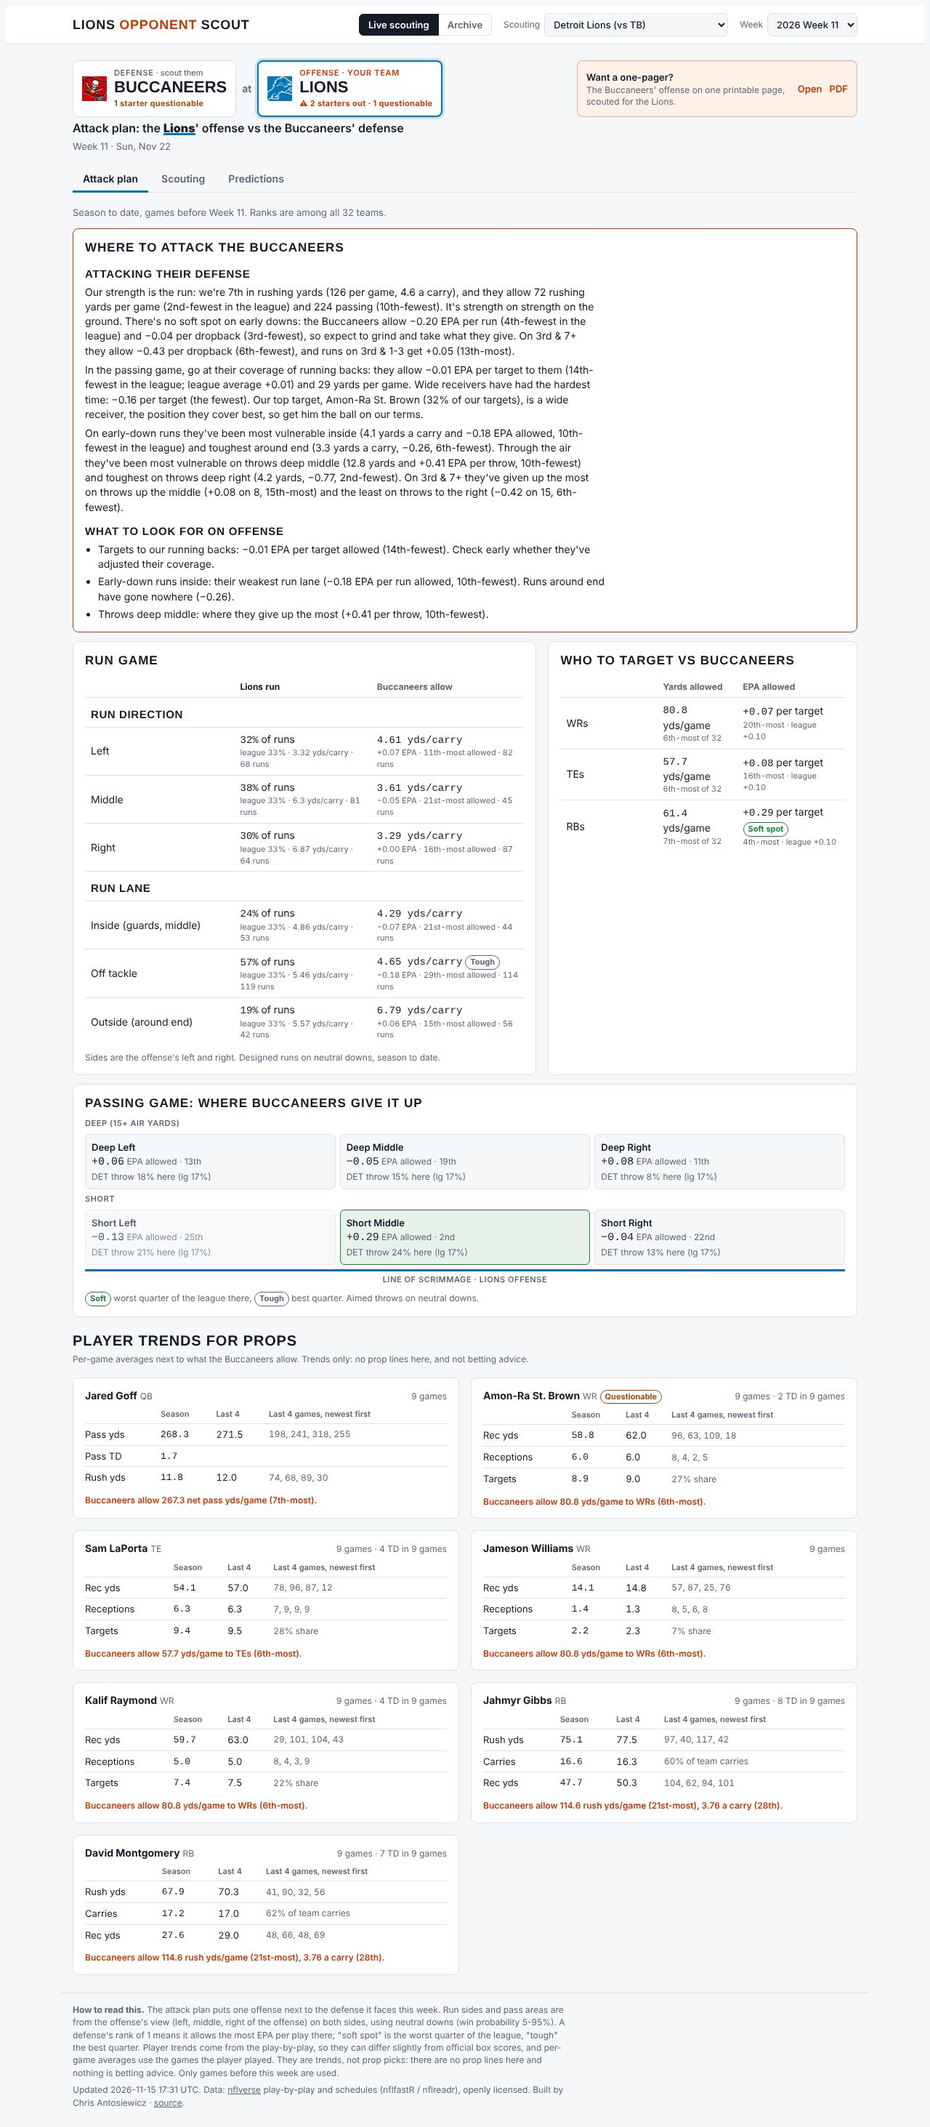
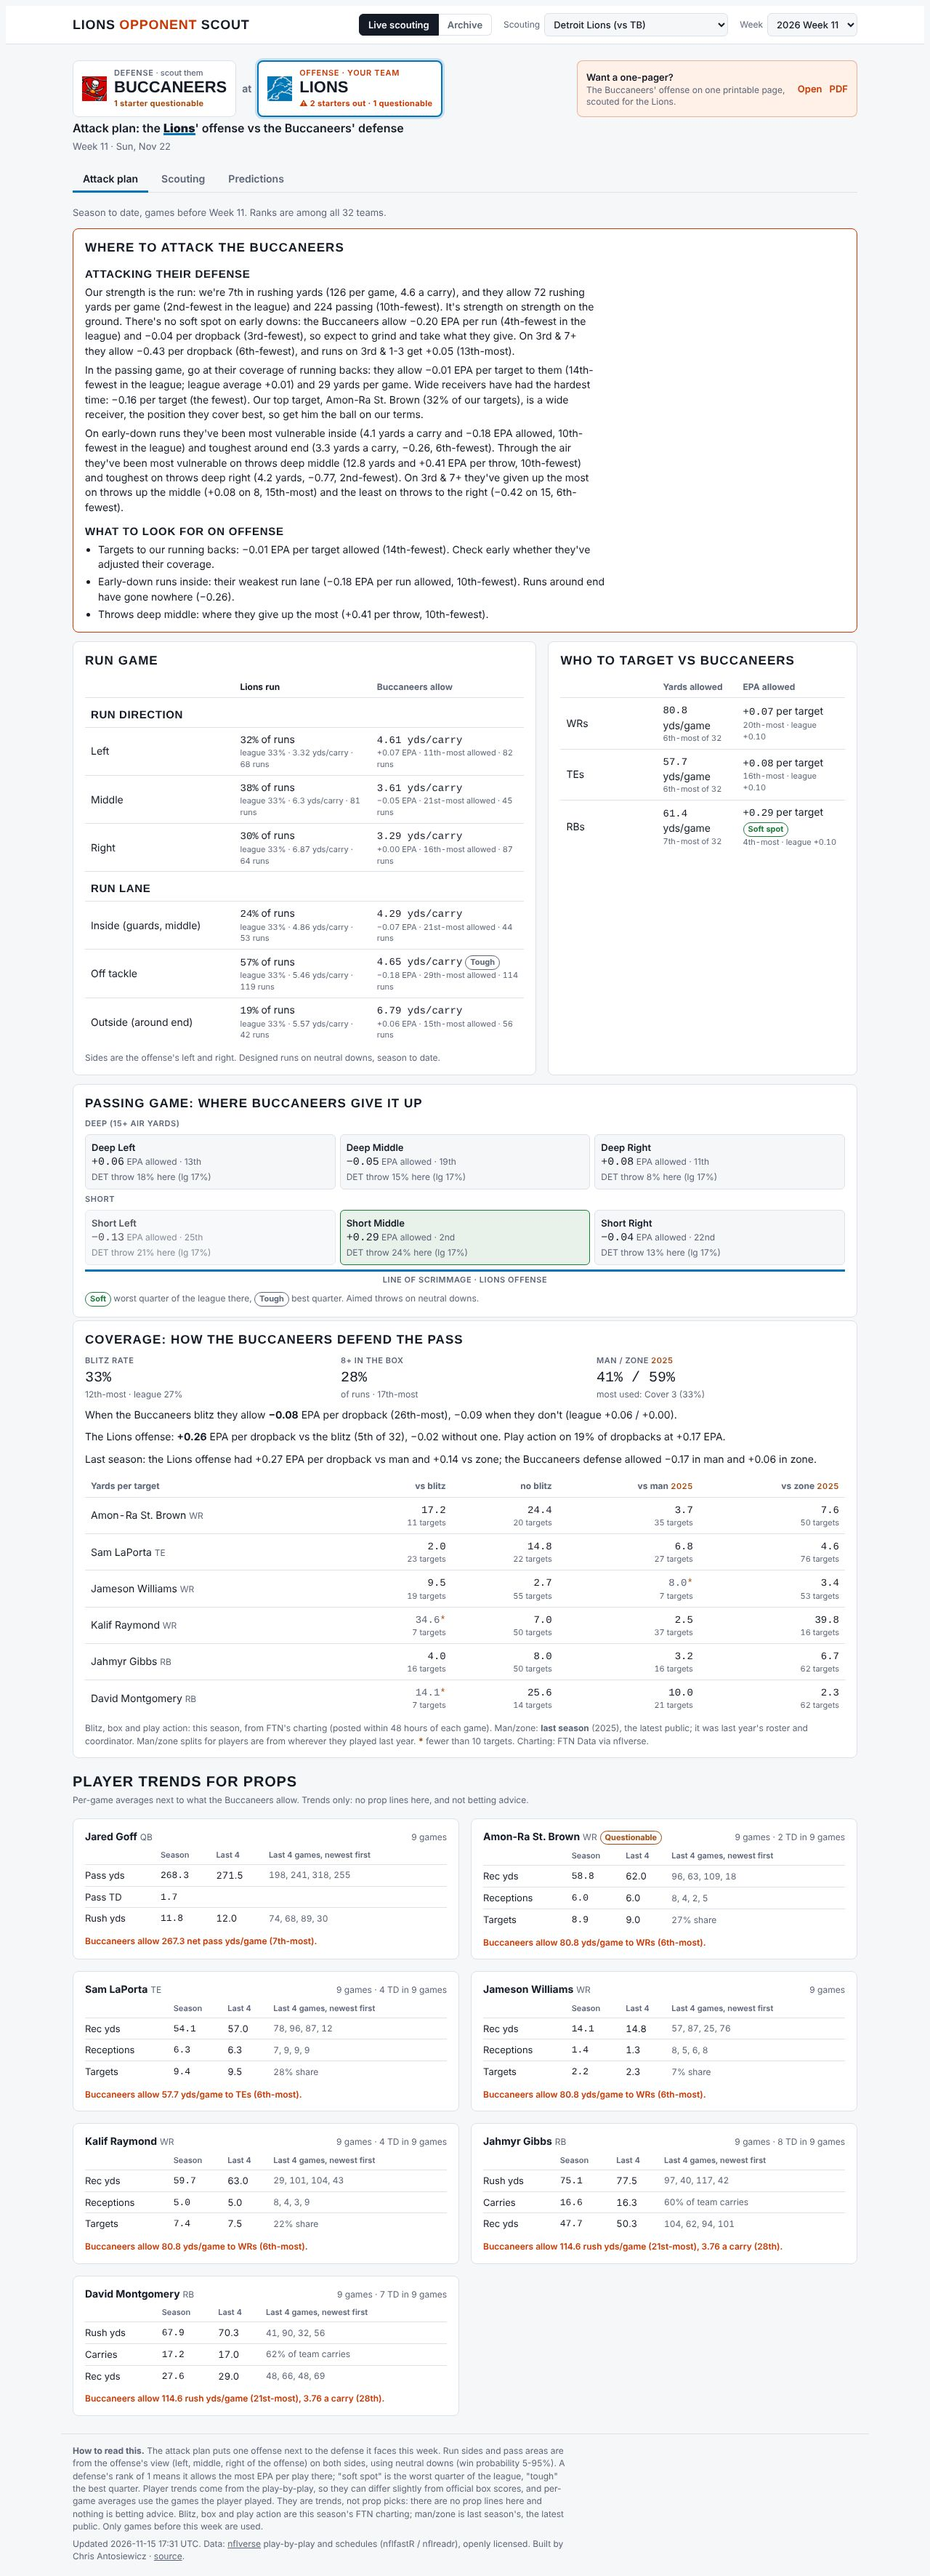
Attack plan: coverage box (blitz, box, play action, last season man/zone)
New feeds raw_ftn_charting (this season, FTN via nflverse) and
raw_participation (last season). 09_stg_charting.sql stages them per play;
37_coverage_matchup.sql builds coverage_team (blitz rate, EPA vs blitz,
heavy box, play action, last season man/zone and top shell) and
coverage_players (yards per target vs blitz / no blitz, last season vs
man / zone), with test_coverage_valid.sql.

Claude-Session: https://claude.ai/code/session_01T24xhufLEbDyjZPymWdNS4

diff --git a/site/scout.html b/site/scout.html
@@ -222,7 +222,7 @@ table.props td b { font-family: var(--mono); font-weight: 500; }
 
 <footer class="wrap">
   <p id="how-preds" hidden><strong>How to read this.</strong> Lines and records come from nflverse schedules. A spread is shown from each team's side, favorite negative. The win chance is a model estimate from an Elo rating (every team's strength, updated after each game, with home field and rest after a bye) and is shown next to the market's chance from the moneylines with the bookmaker's margin removed. Only win chances are shown: the model has not shown an edge against the spread or on totals. Trend records count each game against its closing line. Only games before this week are used.</p>
-  <p id="how-attack" hidden><strong>How to read this.</strong> The attack plan puts one offense next to the defense it faces this week. Run sides and pass areas are from the offense's view (left, middle, right of the offense) on both sides, using neutral downs (win probability 5-95%). A defense's rank of 1 means it allows the most EPA per play there; "soft spot" is the worst quarter of the league, "tough" the best quarter. Player trends come from the play-by-play, so they can differ slightly from official box scores, and per-game averages use the games the player played. They are trends, not prop picks: there are no prop lines here and nothing is betting advice. Only games before this week are used.</p>
+  <p id="how-attack" hidden><strong>How to read this.</strong> The attack plan puts one offense next to the defense it faces this week. Run sides and pass areas are from the offense's view (left, middle, right of the offense) on both sides, using neutral downs (win probability 5-95%). A defense's rank of 1 means it allows the most EPA per play there; "soft spot" is the worst quarter of the league, "tough" the best quarter. Player trends come from the play-by-play, so they can differ slightly from official box scores, and per-game averages use the games the player played. They are trends, not prop picks: there are no prop lines here and nothing is betting advice. Blitz, box and play action are this season's FTN charting; man/zone is last season's, the latest public. Only games before this week are used.</p>
   <p id="how-scout"><strong>How to read this.</strong> Every dot is one NFL team, ranked on the same plays. The big dot is the team you picked, the dark line is the league average. Pass rate counts sacks and scrambles as passes. Pass rate over expected compares their pass rate with what an average team calls in the same down, distance, field position, score and time (nflverse xpass model). EPA is expected points added per play; above 0 helps the offense. Early downs, 3rd down, red zone and all neutral use only plays with the offense's win probability between 5% and 95%; 2-minute and trailing by 8+ use every play. Numbers on fewer than 30 plays are greyed and marked * and never make "What stands out". Only games before this week are used.</p>
   <p id="foot-meta"></p>
 </footer>
@@ -691,6 +691,32 @@ table.props td b { font-family: var(--mono); font-weight: 500; }
       <tbody>${lines.map(l => `<tr><td>${l[0]}</td><td><b>${l[1]}</b></td><td>${l[2] || ""}</td><td class="muted">${l[3]}</td></tr>`).join("")}</tbody></table>
       ${vs ? `<p class="vs">${vs}</p>` : ""}</article>`;
   }
+  function coverageBox(d, team, info, oppInfo) {
+    const cov = (d.coverage || []);
+    const def = cov.find(r => r.team === oppInfo.team && r.side === "defense");
+    const off = cov.find(r => r.team === team && r.side === "offense");
+    if (!def && !off) return "";
+    const pc = v => v == null ? "–" : Math.round(100 * v) + "%";
+    const shell = c => String(c || "").replace(/^COVER_/, "Cover ").replace("2_MAN", "2-Man").replace(/_/g, " ").toLowerCase().replace(/^\w/, x => x.toUpperCase());
+    const stats = [];
+    if (def && def.blitz_rate != null) stats.push(`<div class="stat"><div class="k">Blitz rate</div><div class="v">${pc(def.blitz_rate)}</div><div class="s">${def.blitz_rank ? `${ord(def.blitz_rank)}-most · ` : ""}league ${pc(def.league_blitz_rate)}</div></div>`);
+    if (def && def.heavy_box_rate != null) stats.push(`<div class="stat"><div class="k">8+ in the box</div><div class="v">${pc(def.heavy_box_rate)}</div><div class="s">of runs${def.heavy_box_rank ? ` · ${ord(def.heavy_box_rank)}-most` : ""}</div></div>`);
+    if (def && def.ly_man_rate != null) stats.push(`<div class="stat"><div class="k">Man / zone <span class="est">${d.season - 1}</span></div><div class="v">${pc(def.ly_man_rate)} / ${pc(def.ly_zone_rate)}</div><div class="s">${def.ly_top_coverage ? `most used: ${esc(shell(def.ly_top_coverage))} (${pc(def.ly_top_coverage_share)})` : ""}</div></div>`);
+    const lines = [];
+    if (def && def.blitz_epa != null) lines.push(`When the ${esc(oppInfo.nick)} blitz they allow <b>${sgn(def.blitz_epa)}</b> EPA per dropback${def.blitz_epa_rank ? ` (${ord(def.blitz_epa_rank)}-most)` : ""}, ${sgn(def.noblitz_epa)} when they don't (league ${sgn(def.league_blitz_epa)} / ${sgn(def.league_noblitz_epa)}).`);
+    if (off && off.blitz_epa != null) lines.push(`The ${esc(info.nick)} offense: <b>${sgn(off.blitz_epa)}</b> EPA per dropback vs the blitz${off.blitz_epa_rank ? ` (${ord(off.blitz_epa_rank)} of ${off.teams})` : ""}, ${sgn(off.noblitz_epa)} without one. Play action on ${pc(off.pa_rate)} of dropbacks at ${sgn(off.pa_epa)} EPA.`);
+    if (off && off.ly_man_epa != null && def && def.ly_man_epa != null) lines.push(`Last season: the ${esc(info.nick)} offense had ${sgn(off.ly_man_epa)} EPA per dropback vs man and ${sgn(off.ly_zone_epa)} vs zone; the ${esc(oppInfo.nick)} defense allowed ${sgn(def.ly_man_epa)} in man and ${sgn(def.ly_zone_epa)} in zone.`);
+    const MINT = 10;
+    const split = (t, y) => !t ? `<td class="small">–</td>` : `<td class="${t < MINT ? "small" : ""}"><b>${(y / t).toFixed(1)}</b><small>${t} targets</small></td>`;
+    const ps = (d.coverage_players || []).filter(r => r.team === team && (r.blitz_targets + r.noblitz_targets + r.ly_man_targets + r.ly_zone_targets) > 0);
+    const table = ps.length ? `<table class="h2h"><thead><tr><th>Yards per target</th><th>vs blitz</th><th>no blitz</th><th>vs man <span class="est">${d.season - 1}</span></th><th>vs zone <span class="est">${d.season - 1}</span></th></tr></thead><tbody>
+      ${ps.map(r => `<tr><td>${esc(r.player)} <span class="muted">${esc(r.position || "")}</span></td>${split(r.blitz_targets, r.blitz_yards)}${split(r.noblitz_targets, r.noblitz_yards)}${split(r.ly_man_targets, r.ly_man_yards)}${split(r.ly_zone_targets, r.ly_zone_yards)}</tr>`).join("")}</tbody></table>` : "";
+    return `<div class="box" style="margin-top:4px"><h2>Coverage: how the ${esc(oppInfo.nick)} defend the pass</h2>
+      ${stats.length ? `<div class="lines">${stats.join("")}</div>` : ""}
+      ${lines.map(l => `<p style="margin:10px 0 0">${l}</p>`).join("")}
+      ${table ? `<div style="margin-top:12px;overflow-x:auto">${table}</div>` : ""}
+      <p class="muted" style="margin:8px 0 0">Blitz, box and play action: this season, from FTN's charting (posted within 48 hours of each game). Man/zone: <b>last season</b> (${d.season - 1}), the latest public; it was last year's roster and coordinator. Man/zone splits for players are from wherever they played last year. <b style="color:var(--warn)">*</b> fewer than ${MINT} targets. Charting: FTN Data via nflverse.</p></div>`;
+  }
   function attackHtml(d, team, info, game, notes) {
     if (!game) return `<div class="box" style="margin-top:12px"><h2>Bye week</h2><p class="muted">The ${esc(info.nick)} don't play this week. The Scouting tab still has their tendencies.</p></div>`;
     const oppInfo = d.teamInfo.get(game.opponent);
@@ -702,6 +728,7 @@ table.props td b { font-family: var(--mono); font-weight: 500; }
       ${notes ? `<div class="box notes" style="margin-top:12px"><h2>Where to attack the ${esc(oppInfo.nick)}</h2>${notesHtml(notes)}</div>` : ""}
       <section class="lead">${runTable(d, team, info, game.opponent, oppInfo)}${positionBox(d, oppInfo)}</section>
       ${passGrid(d, team, info, game.opponent, oppInfo)}
+      ${coverageBox(d, team, info, oppInfo)}
       <h2 class="sec">Player trends for props</h2>
       <p class="muted" style="margin:0 0 8px">Per-game averages next to what the ${esc(oppInfo.nick)} allow. Trends only: no prop lines here, and not betting advice.</p>
       <section class="grid">${players.map(p => propCard(d, p, oppInfo)).join("") || `<p class="muted">No player data yet.</p>`}</section>`;

diff --git a/_shared/definitions.md b/_shared/definitions.md
@@ -54,7 +54,7 @@ Implemented in `sql/models/08_stg_injuries.sql`, `35_injury_report.sql` and `36_
 
 ## Attack plan and player trends (added Nov 15, 2026)
 
-Implemented in `sql/models/22_player_trends.sql`; the attack plan on `site/scout.html` also reads `24_defense_vs_position`, `25_team_yards` and `26_play_direction`.
+Implemented in `sql/models/22_player_trends.sql`, `09_stg_charting.sql` and `37_coverage_matchup.sql`; the attack plan on `site/scout.html` also reads `24_defense_vs_position`, `25_team_yards` and `26_play_direction`.
 
 | Item | Definition |
 |------|-----------|
@@ -63,6 +63,9 @@ Implemented in `sql/models/22_player_trends.sql`; the attack plan on `site/scout
 | Player picks | Per team: the QB with the most passing yards, the 2 backs with the most carries, the 4 WR/TE with the most targets, season to date. |
 | Player stats | From play-by-play: receiving = targets, catches, yards on catches; rushing = every carry with a rusher listed, scrambles included; passing = completions and yards on them. Per-game = over the games the player had a stat. Can differ slightly from official box scores. |
 | Prop trends | Averages and last 4 game logs next to what the opponent allows. No prop lines; not a pick. |
+| Blitz | FTN charting: 1+ blitzer on a dropback. Blitz rate = blitzes / charted dropbacks; ranks need 30+ charted dropbacks. |
+| Heavy box | FTN charting: 8+ defenders in the box at the snap on a designed run. |
+| Man / zone | nflverse participation (FTN), last season only: it is published after the postseason, so the current season has none. Shown labeled with its season. |
 
 ## Trades during the season
 

diff --git a/sql/export/CONTEXT.md b/sql/export/CONTEXT.md
@@ -7,7 +7,7 @@ One job: write what `site/scout.html` and `site/archive.html` fetch.
 - Reference (every run): `R/pipeline.R` `run_sql_template()` fills the `{{placeholders}}`
 
 ## Process
-1. `site_week.sql`: all 32 teams for one week -> `site/data/<season>-week<NN>.json`, including injury reports, the game-day forecast and the attack plan's data (play direction, defense vs position, team yards, player trends). Written for the focal team's report week and, when that team is on bye, for the league's current week too, so the page always has this weekend's games. Update runs rewrite these files only.
+1. `site_week.sql`: all 32 teams for one week -> `site/data/<season>-week<NN>.json`, including injury reports, the game-day forecast and the attack plan's data (play direction, defense vs position, team yards, player trends, coverage). Written for the focal team's report week and, when that team is on bye, for the league's current week too, so the page always has this weekend's games. Update runs rewrite these files only.
 2. `site_index.sql`: the weeks on disk, newest first, with each week's last game day -> `site/data/index.json`. The page opens on the earliest week not yet over.
 3. `site_report_cards.sql`: every graded matchup -> `site/data/report-cards-<season>.json`.
 4. `site_predictions.sql`: locked win-% calls with results and grades -> `site/data/predictions-<season>.json`. `export_predictions()` reads the existing file first, so a locked call is never rewritten, and a game that has kicked off is never locked.

diff --git a/README.md b/README.md
@@ -50,6 +50,7 @@ Needs R, Quarto, and the packages in `DESCRIPTION` (pinned in `renv.lock`: run `
 | Elo and predictions | `sql/models/32_elo_ratings.sql`, `33_game_predictions.sql`, `export_predictions()` | Elo v1 ratings since 2017, each game's model win %, locked in `site/data/predictions-<season>.json` and graded after the game |
 | Betting trends | `sql/models/34_betting_trends.sql` | ATS, straight-up and over/under records per team, season and last 4, home / away / favorite / underdog, with league ranks |
 | Player trends | `sql/models/22_player_trends.sql` | each team's QB, top 2 backs and top 4 WR/TE: per-game receiving, rushing and passing, season and last 4, last 4 game logs, for the prop angles on the attack plan |
+| Coverage | `sql/models/09_stg_charting.sql`, `37_coverage_matchup.sql` | blitz rate, box count and play action this season (FTN charting via nflverse), man/zone and coverage shell last season (participation), for teams and their top receivers and backs |
 | Live page | `site/scout.html` | interactive scout: any team, Attack plan, Scouting and Predictions tabs, season or last 4, 32-team strips; staff notes from `site/notes/` |
 | Automation | `.github/workflows/weekly-report.yml` | Tuesday run, Wednesday retry, Thursday/Saturday/Sunday/Monday morning updates (injuries, lines, weather), publish to Pages |
 

diff --git a/sql/models/CONTEXT.md b/sql/models/CONTEXT.md
@@ -11,7 +11,7 @@ Do NOT load: `site/reports/`, `site/data/`.
 
 ## Process
 1. Files run in file-name order (`build_models()`); a model may only read lower-numbered models.
-2. Numbering bands: `01-09` staging and feeds, `10-17` tendencies, ranks and trades, `18-31` targets, formations, defense, direction, notes and grading, `32-39` betting lines, Elo, predictions, injuries and weather (`07_stg_market_lines` and `08_stg_injuries` are staging).
+2. Numbering bands: `01-09` staging and feeds, `10-17` tendencies, ranks and trades, `18-31` targets, formations, defense, direction, notes and grading, `32-39` betting lines, Elo, predictions, injuries, weather and coverage (`07_stg_market_lines` and `08_stg_injuries` are staging).
 3. Store counts and sums; compute rates last. Every number keeps its `n`.
 4. A report for week N uses only games before week N.
 5. A definition lives in one model; others read it from there.
